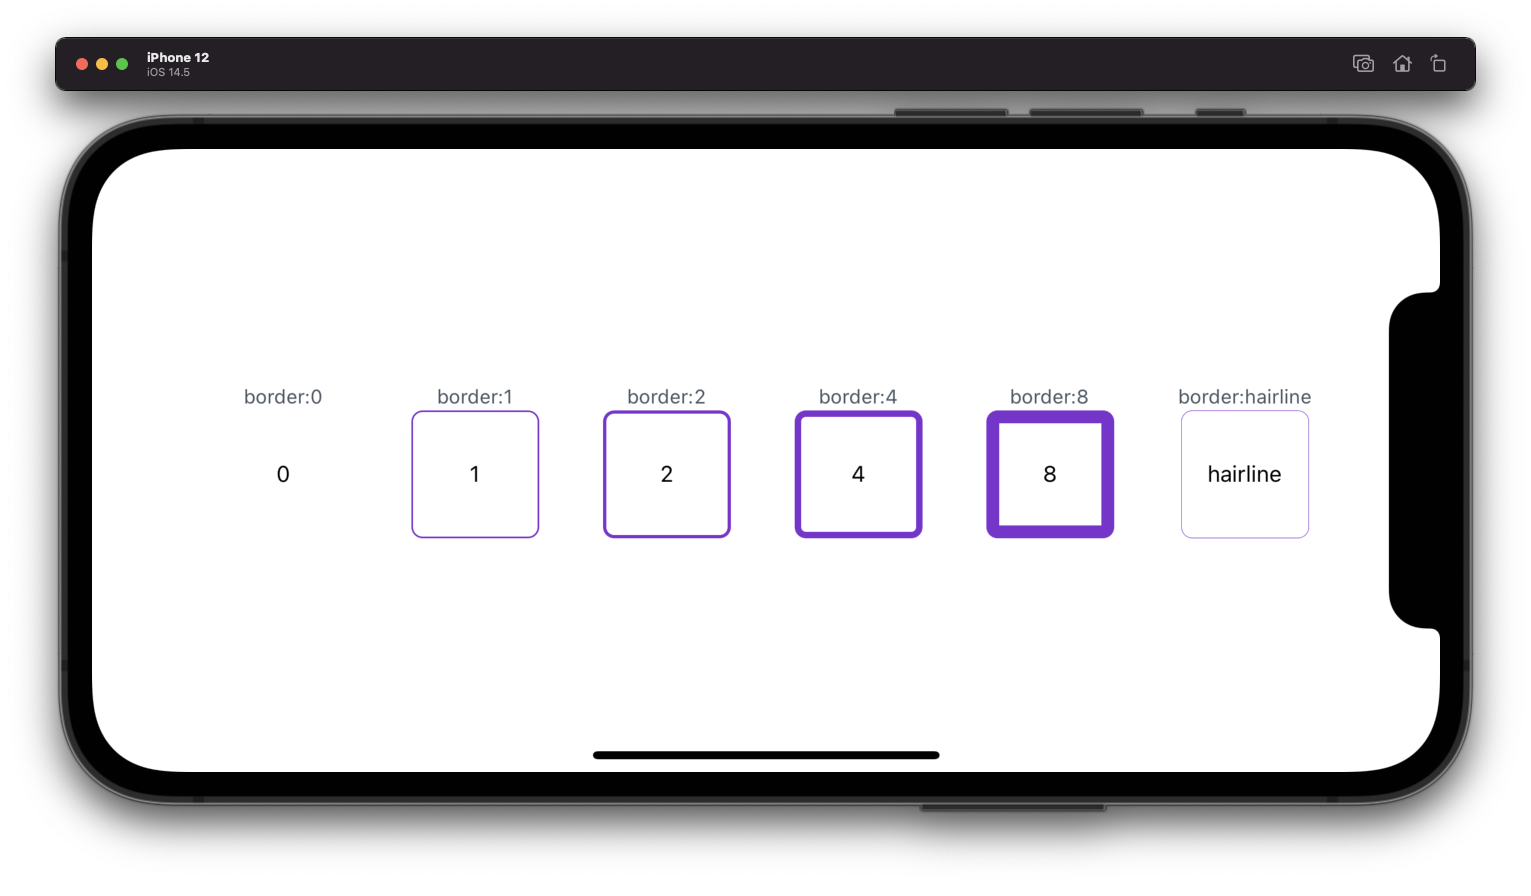
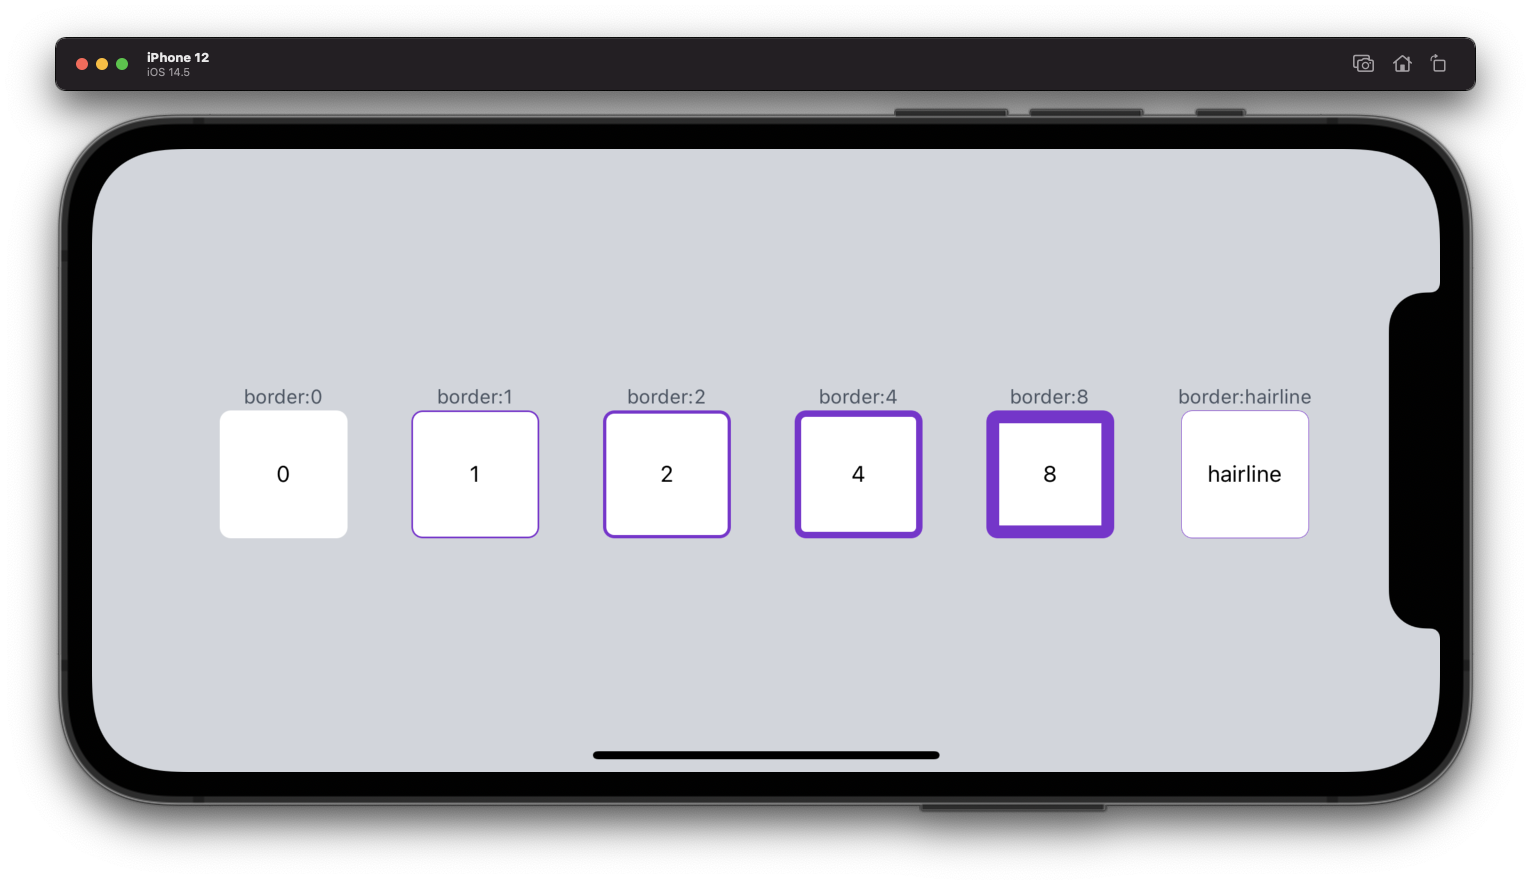
Update borderSizes pic

diff --git a/sample/DefaultBorderSizes.tsx b/sample/DefaultBorderSizes.tsx
@@ -12,7 +12,8 @@ export const DefaultBorderSizes: React.FC<DefaultBorderSizesProps> = () => {
         "flex:row",
         "items:center",
         "justify:between",
-        "px:20"
+        "px:20",
+        "bg:gray-300"
       )}
     >
       {Object.keys(constraints.borderSizes).map((key) => (
@@ -21,6 +22,7 @@ export const DefaultBorderSizes: React.FC<DefaultBorderSizesProps> = () => {
           <View
             style={sb(
               "rounded:lg",
+              "bg:white",
               "border-color:purple-700",
               // @ts-ignore
               `border:${key}`,

diff --git a/sample/App.tsx b/sample/App.tsx
@@ -2,11 +2,12 @@ import * as React from "react";
 import { createStyleBuilder, defaultConstraints } from "./lib";
 import { DefaultAspectRatios } from "./DefaultAspectRatios";
 import { DefaultBorderRadii } from "./DefaultBorderRadii";
+import { DefaultBorderSizes } from "./DefaultBorderSizes";
 
 const { builder: sb } = createStyleBuilder(defaultConstraints);
 
 const App: React.FC = () => {
-  return <DefaultBorderRadii />;
+  return <DefaultBorderSizes />;
 };
 
 export default App;
